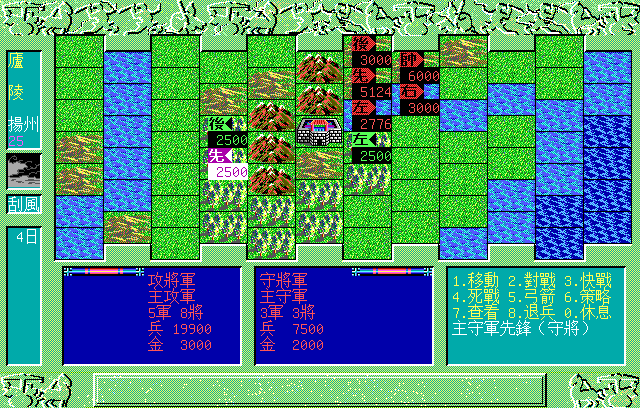
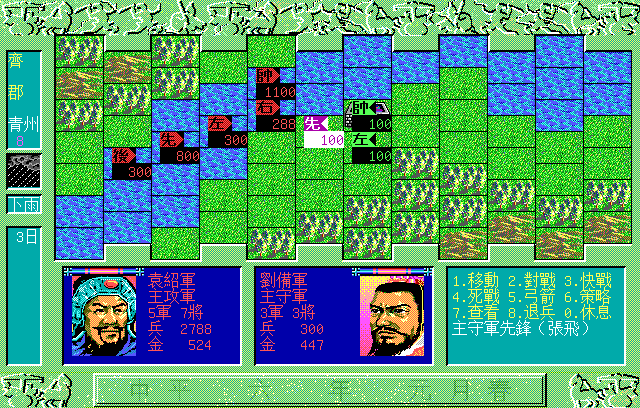
ui/docs: README 的主戰場截圖重產成有統帥肖像的那一張，肖像那兩塊加進像素比對（#43）
原版主戰場的兩個軍力面板各有一張統帥的肖像（基準畫面 `orig-battle.png`：
守方 F014 直放、攻方 F228 左右翻，`docs/spec/005`），remake 的
`ArtBattle.compose` 本來就畫得出來；README 那張是 `cmd/san1dump` 用預設
的廬陵產的——劇本裡湊不出兩個真勢力就退回自組的樣本局面，統帥的姓名
與肖像都是空的，文字卻寫著齊郡、袁紹攻劉備守。

- `docs/images/battle.png` 改用 `-screen artbattle -sel 8 -months 2` 重產
  （齊郡、青州、第三天、袁紹軍對劉備軍，兩張肖像都在），README 記下
  產法。
- `TestArtBattlePortraitsMatchTheOriginal`：基準畫面裡兩塊肖像不寫死是
  誰，在 `DATA1` 全部的 `F%03d.FAC` 裡找逐像素相同的那一張（照該側
  翻不翻）——攻方 F228、守方 F014——再拿編號走 `compose` 畫回去，
  兩塊逐點相同。

diff --git a/internal/ui/artbattle_test.go b/internal/ui/artbattle_test.go
@@ -213,3 +213,88 @@ func TestArtBattleFurnitureMatchesTheOriginal(t *testing.T) {
 		same("肖像框", x, assets.BattlePanelY, x+assets.BattleFrameW-1, assets.BattlePanelY+7)
 	}
 }
+
+// TestArtBattlePortraitsMatchTheOriginal 把基準畫面裡兩個面板的肖像對回
+// 原版：原版主戰場的兩個面板各有一張統帥的肖像（`orig-battle.png` 是
+// 陳就對周瑜），攻方那張左右翻、守方那張直放（`assets.BattleFaceMirror`）。
+//
+// 基準畫面是誰打誰不寫死——在 `DATA1` 的所有 `F%03d.FAC` 裡找**逐像素
+// 相同**的那一張（照那一側該不該翻），找得到就代表位置、翻不翻與解碼
+// 都對；再拿找到的編號叫 `compose`，那一塊要與基準畫面逐點相同——
+// 這才是 remake 真正畫肖像的那條路。
+func TestArtBattlePortraitsMatchTheOriginal(t *testing.T) {
+	f, err := os.Open(artShotPath)
+	if err != nil {
+		t.Skipf("沒有主戰場基準畫面 %s", artShotPath)
+	}
+	shot, err := imgpng.Decode(f)
+	f.Close()
+	if err != nil {
+		t.Fatal(err)
+	}
+	c1, c3 := artContainers(t)
+	ab, err := NewArtBattle(c1, c3)
+	if err != nil {
+		t.Fatal(err)
+	}
+	var found [2]int
+	for side := range assets.BattleFaceX {
+		found[side] = -1
+		x0, y0 := assets.BattleFaceX[side], assets.BattleFaceY
+		for n := 0; n < 400; n++ {
+			face := ab.face(n)
+			if face == nil {
+				continue
+			}
+			if assets.BattleFaceMirror[side] {
+				face = face.Mirror()
+			}
+			ok := true
+			for y := 0; y < face.H && ok; y++ {
+				for x := 0; x < face.W; x++ {
+					a := assets.EGAPalette[face.At(x, y)&15]
+					o := color.RGBAModel.Convert(shot.At(x0+x, y0+y)).(color.RGBA)
+					if a != o {
+						ok = false
+						break
+					}
+				}
+			}
+			if ok {
+				if found[side] >= 0 {
+					t.Errorf("第 %d 側的肖像同時對上 F%03d 與 F%03d", side, found[side], n)
+				}
+				found[side] = n
+			}
+		}
+		if found[side] < 0 {
+			t.Errorf("第 %d 側 (%d,%d) 起的那一塊在 DATA1 的肖像裡找不到逐像素相同的（翻 %v）",
+				side, x0, y0, assets.BattleFaceMirror[side])
+		}
+	}
+	t.Logf("基準畫面的肖像：攻方 F%03d、守方 F%03d", found[0], found[1])
+	if found[0] < 0 || found[1] < 0 {
+		return
+	}
+	// 反過來走 remake 的路：拿找到的編號畫，肖像那兩塊要與基準逐點相同。
+	fld := battle.Generate(battle.Params{Prefecture: 25})
+	b := battle.New(battle.Setup{Field: fld, Seed: 1})
+	im := ab.compose(b, BattleView{}, ArtBattleInfo{Portrait: found})
+	for side := range assets.BattleFaceX {
+		face := ab.face(found[side])
+		bad := 0
+		for y := 0; y < face.H; y++ {
+			for x := 0; x < face.W; x++ {
+				px, py := assets.BattleFaceX[side]+x, assets.BattleFaceY+y
+				a := assets.EGAPalette[im.At(px, py)&15]
+				o := color.RGBAModel.Convert(shot.At(px, py)).(color.RGBA)
+				if a != o {
+					bad++
+				}
+			}
+		}
+		if bad > 0 {
+			t.Errorf("第 %d 側畫出來的肖像有 %d 點與基準不同", side, bad)
+		}
+	}
+}

diff --git a/docs/spec/005-main-screen.md b/docs/spec/005-main-screen.md
@@ -425,7 +425,9 @@ SAN1_SHOTS=/src/workplace/shots/bf SAN1_BATTLESHOT=orig-battle SAN1_BATTLEKEY='2
 框（`FBRC0.IMG`，80×8）在 (64,268) 與 (352,268) 各 100% 相符，
 框內的肖像 64×80 在 (72,276) 與 (360,276)。守方的 `F014.FAC` 直接
 對得上；**攻方的 `F228.FAC` 要左右翻過來才 100%**（各 4736 格，
-下緣被畫面切掉）。
+下緣被畫面切掉）。`TestArtBattlePortraitsMatchTheOriginal` 不寫死是誰：
+在 `DATA1` 全部的 `F%03d.FAC` 裡找那兩塊逐像素相同的（照該側翻不翻），
+再拿找到的編號走 remake 的 `compose` 畫一次比回去（Issue #43）。
 
 **天氣的編號是晴 0、雨 1、風 2**，不是說明書講到的順序。天氣名表在
 `DS:0x7892`，三筆每筆 5 byte，依序是「 晴 」「 雨 」「 風 」；
